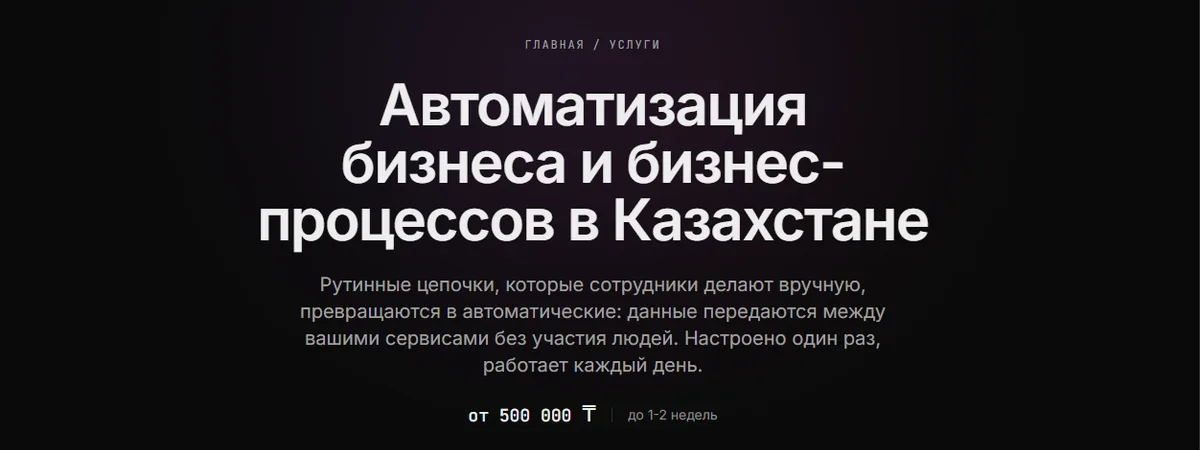
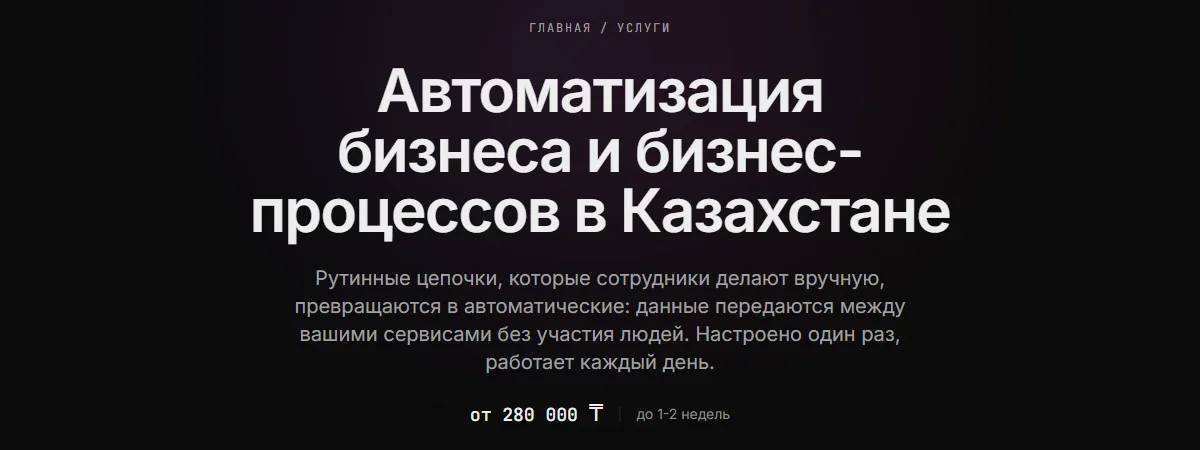
blog: скрины услуг с новыми ценами; сторож браузера видит сообщения посреди хода

diff --git a/.claude/detectors/check_playwright_only_on_command.py b/.claude/detectors/check_playwright_only_on_command.py
@@ -29,16 +29,22 @@ SERVICE_MARKERS = (
 )
 
 
-def _recent_boris(lines, n=5):
+def _recent_boris(lines, n=10):
     out = []
     for line in reversed(lines):
         try:
             o = json.loads(line)
         except Exception:
             continue
-        if o.get("type") != "user" or o.get("isMeta"):
+        # Сообщения, отправленные посреди хода, пишутся как attachment/queued_command,
+        # а не как user: без этого сторож их не видел и блокировал прямую команду.
+        att = o.get("attachment") or {}
+        if o.get("type") == "attachment" and att.get("type") == "queued_command":
+            c = att.get("prompt")
+        elif o.get("type") != "user" or o.get("isMeta"):
             continue
-        c = (o.get("message", {}) or {}).get("content")
+        else:
+            c = (o.get("message", {}) or {}).get("content")
         text = ""
         if isinstance(c, str):
             text = c
